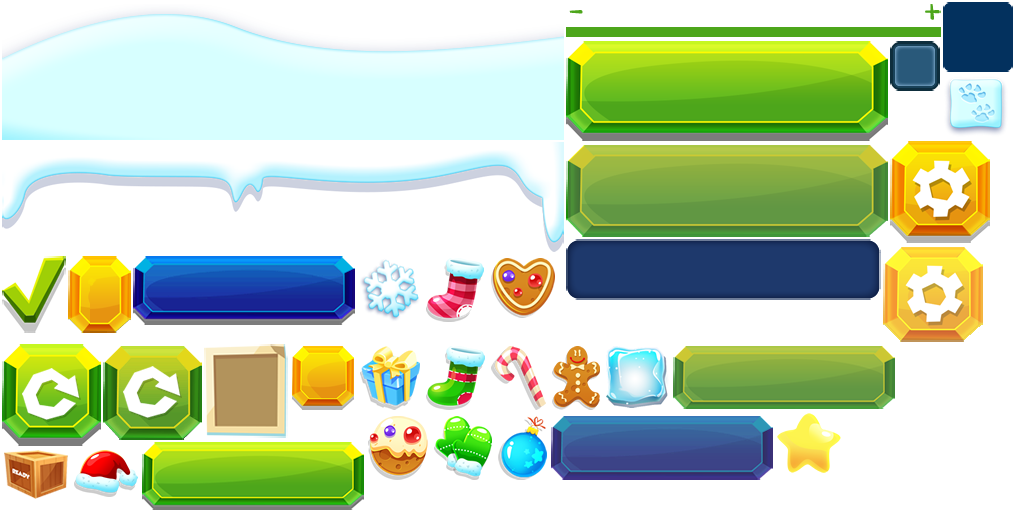
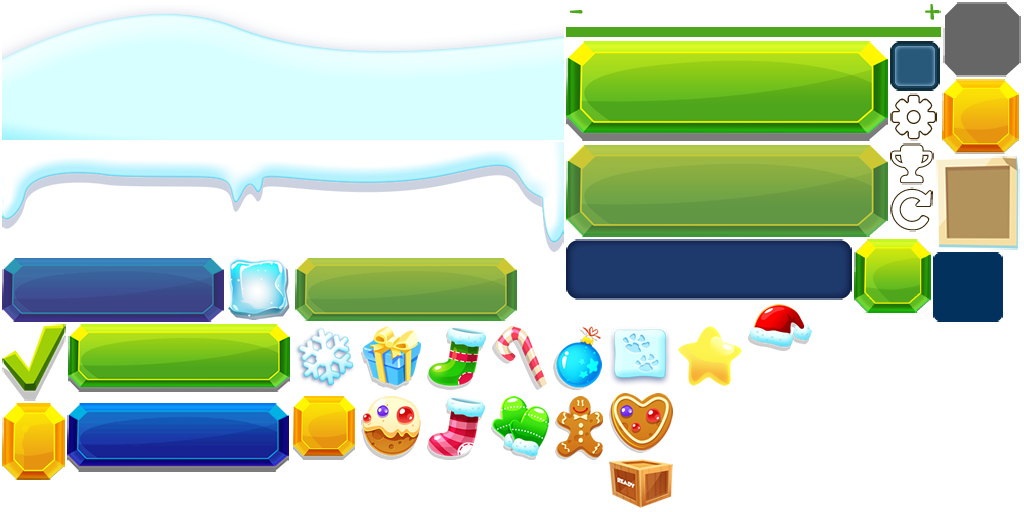
new JewelButton + language select from Settings

diff --git a/js/widgets/popups/SettingsPopup.js b/js/widgets/popups/SettingsPopup.js
@@ -11,31 +11,29 @@ function SettingsPopup(game) {
     this.closeButton.alignIn(this.bg, Phaser.BOTTOM_CENTER, 0, 32);
     this.bg.addChild(this.closeButton);
 
-    this.scoreCallback = undefined;
-    this.scoreCallbackContext = undefined;
-    this.scoreButton = this.game.add.button(0, 0, R.images.buttons.midBlueIdle.page,
+    this.languageButton = this.game.add.button(0, 0, R.images.buttons.midBlueIdle.page,
         function () {
-            this.onScoreButtonPressed();
+            this.onLanguageButtonPressed();
         }, this,
         R.images.buttons.midBlueIdle.name,
         R.images.buttons.midBlueIdle.name,
         R.images.buttons.midBluePressed.name,
         R.images.buttons.midBlueIdle.name);
-    this.scoreButton.alignIn(this.bg, Phaser.TOP_CENTER, 0, -32);
+    this.languageButton.alignIn(this.bg, Phaser.TOP_CENTER, 0, -32);
 
-    var scoreBtLabel = this.game.add.bitmapText(0, 0, R.fonts.robotoBold.name, Locale.strings.scoreTable, 28);
+    var languageBtLabel = this.game.add.bitmapText(0, 0, R.fonts.robotoBold.name, Locale.currentLocale.label, 28);
     // scoreBtLabel.tint = "0xffffff"; // для белого не нужно
-    scoreBtLabel.alignIn(this.scoreButton, Phaser.CENTER, 0, -5);
+    languageBtLabel.alignIn(this.languageButton, Phaser.CENTER, 0, -5);
 
-    this.bg.addChild(this.scoreButton);
-    this.bg.addChild(scoreBtLabel);
+    this.bg.addChild(this.languageButton);
+    this.bg.addChild(languageBtLabel);
 
     this.musicSlider = new VolumeSlider(this.game,
         Sound.settings.volume.music,
         Sound.settings.mute.music,
         Locale.strings.musicOn,
         Locale.strings.musicOff);
-    this.musicSlider.rootView.alignTo(this.scoreButton, Phaser.BOTTOM_CENTER, 0, 120);
+    this.musicSlider.rootView.alignTo(this.languageButton, Phaser.BOTTOM_CENTER, 0, 120);
     this.bg.addChild(this.musicSlider.rootView);
 
     this.musicSlider.setVolumeCallback(function (volume) {
@@ -84,30 +82,17 @@ SettingsPopup.prototype.setXY = function (x, y) {
     return this;
 };
 
-SettingsPopup.prototype.onNewGamePressed = function () {
+
+SettingsPopup.prototype.onLanguageButtonPressed = function () {
     this.hide();
-    if (this.newGameCallback) {
-        this.newGameCallback.call(this.newGameCallbackContext);
+    if (this.languageCallback) {
+        this.languageCallback.call(this.languageCallbackContext);
     }
 };
 
-SettingsPopup.prototype.setNewGameCallBack = function (callback, context) {
-    this.newGameCallback = callback;
-    this.newGameCallbackContext = context;
-    return this;
-};
-
-
-SettingsPopup.prototype.onScoreButtonPressed = function () {
-    this.hide();
-    if (this.scoreCallback) {
-        this.scoreCallback.call(this.scoreCallbackContext);
-    }
-};
-
-SettingsPopup.prototype.setScoreTableCallBack = function (callback, context) {
-    this.scoreCallback = callback;
-    this.scoreCallbackContext = context;
+SettingsPopup.prototype.setLanguageCallBack = function (callback, context) {
+    this.languageCallback = callback;
+    this.languageCallbackContext = context;
     return this;
 };
 

diff --git a/js/windows/main/MainState.js b/js/windows/main/MainState.js
@@ -17,7 +17,7 @@ function MainState() {
         var bg = this.game.add.image(0, 0, R.images.bg.cristmas); // bg
 
         var scoreBg = this.addImage(0, 0, R.images.ui.scoreBg);
-        scoreBg.alignIn(this.game.world, Phaser.TOP_CENTER, 0, -36);
+        scoreBg.alignIn(this.game.world, Phaser.TOP_LEFT, -96, -36);
         this.scoreText = this.game.add.bitmapText(0, 0, R.fonts.fedoka.name, "" + this.scoreLogic.score, 48);
         this.scoreText.tint = "0xF9DC07";
         this.scoreText.anchor.set(0.5, 0.5);
@@ -30,11 +30,14 @@ function MainState() {
         this.bestScoreText.anchor.setTo(0.5, 0.5); // если так не делать - при обновлении текста сместится выравнивание
         this.bestScoreText.alignTo(scoreBg, Phaser.BOTTOM_CENTER, 0, 4);
 
-        this.settingsButton = buttonBuilder.settingsButton(0, 0, this.onSettingsClick, this);
-        this.settingsButton.alignTo(scoreBg, Phaser.RIGHT_CENTER, 12, 0);
-
         this.newgameButton = buttonBuilder.newGameButton(0, 0, this.onNewGameClick, this);
-        this.newgameButton.alignTo(scoreBg, Phaser.LEFT_CENTER, 12, 0);
+        this.newgameButton.alignTo(scoreBg, Phaser.LEFT_CENTER, 6, 0);
+
+        this.scoreButton = buttonBuilder.scoreButton(0, 0, this.onScoreButtonClick, this);
+        this.scoreButton.alignTo(scoreBg, Phaser.RIGHT_CENTER, 6, 0);
+
+        this.settingsButton = buttonBuilder.settingsButton(0, 0, this.onSettingsClick, this);
+        this.settingsButton.alignTo(this.scoreButton.rootView, Phaser.RIGHT_CENTER, 10, 0);
 
 
         this.bejeweledComponent = this.addBejeweled();
@@ -46,9 +49,9 @@ function MainState() {
 
         this.effectManager = new EffectManager(this.game, this.bejeweledComponent);
 
-        //this.hintButton = buttonBuilder.hintButton(0, 0, this.onHintButtonClick, this);
+        this.hintButton = buttonBuilder.hintButton(0, 0, this.onHintButtonClick, this);
         //this.hintButton = buttonBuilder.hintButton(0, 0, this.onGameOver, this);
-        this.hintButton = buttonBuilder.hintButton(0, 0, this.showLanguagePopup, this);
+        //this.hintButton = buttonBuilder.hintButton(0, 0, this.showLanguagePopup, this);
         this.hintButton.alignTo(this.bejeweledComponent.rootView, Phaser.BOTTOM_CENTER, 0, 20);
         this.hintButton.kill(); // прячем до начала игры
 
@@ -72,8 +75,7 @@ function MainState() {
 
     this.addSettingsPopup = function () {
         this.settingsPopup = new SettingsPopup(this.game)
-            .setNewGameCallBack(this.onNewGameClick, this)
-            .setScoreTableCallBack(this.onScoreButtonClick, this)
+            .setLanguageCallBack(this.showLanguagePopup, this)
             .setOnHideCallback(this.onSettingsHide, this);
         this.settingsPopup.rootView.alignIn(this.game.world, Phaser.CENTER);
     };

diff --git a/js/widgets/JewelButton.js b/js/widgets/JewelButton.js
@@ -1,0 +1,70 @@
+/**
+ * Created by Work on 15.12.2017.
+ *
+ * Простая симуляция кнопки из трех картинок
+ *  - бэк
+ *  - иконка
+ *  - оверлей при нажатии
+ *  все это задается в type, который JewelButtonType
+ */
+
+function JewelButton(game, type) {
+    this.SHADOW_Y_DELTA = 4;
+    this.game = game;
+
+    // тень изанчально смещена на дельту
+    this.shadow = game.add.image(0, 0, type.shadow.page, type.shadow.name);
+    this.rootView = this.shadow;
+    this.bg = game.add.image(0, 0, type.bg.page, type.bg.name);
+    this.icon = game.add.image(0, 0, type.icon.page, type.icon.name);
+    this.icon.alignIn(this.bg, Phaser.CENTER);
+
+    this.bg.addChild(this.icon);
+    this.bg.y -= this.SHADOW_Y_DELTA;
+    this.rootView.addChild(this.bg);
+
+    this.rootView.inputEnabled = true;
+    this.rootView.events.onInputDown.add(this.onInputDown, this);
+    this.rootView.events.onInputUp.add(this.onInputUp, this);
+};
+
+JewelButton.prototype.alignTo = function (t, e, s, n) {
+    this.rootView.alignTo(t, e, s, n);
+    return this;
+};
+
+JewelButton.prototype.alignIn = function (t, e, s, n) {
+    this.rootView.alignIn(t, e, s, n);
+    return this;
+};
+
+JewelButton.prototype.setXY = function (x, y) {
+    this.rootView.x = x;
+    this.rootView.y = y + this.SHADOW_Y_DELTA;
+    return this;
+};
+
+JewelButton.prototype.setCallback = function (callback, context) {
+    this.globalCallback = callback;
+    this.globalContext = context;
+    return this;
+};
+
+JewelButton.prototype.onInputDown = function () {
+    this.bg.y = 0;
+    if (this.globalCallback) {
+        this.globalCallback.apply(this.globalContext);
+    }
+};
+
+JewelButton.prototype.onInputUp = function () {
+    this.bg.y = -this.SHADOW_Y_DELTA;
+};
+
+JewelButton.prototype.hide = function () {
+    this.rootView.kill();
+};
+
+JewelButton.prototype.show = function () {
+    this.rootView.revive();
+};

diff --git a/js/assets/R.js b/js/assets/R.js
@@ -60,10 +60,12 @@ var R = {
         },
 
         buttons: {
-            replayIdle: {page: "cristmas_tiles", name: "buttons-replay-idle"},
-            replayPressed: {page: "cristmas_tiles", name: "buttons-replay-pressed"},
-            settingsIdle: {page: "cristmas_tiles", name: "buttons-settings-idle"},
-            settingsPressed: {page: "cristmas_tiles", name: "buttons-settings-pressed"},
+            bt75greenbg: {page: "cristmas_tiles", name: "bt75greenbg"},
+            bt75yellowbg: {page: "cristmas_tiles", name: "bt75yellowbg"},
+            bt75iconReplay: {page: "cristmas_tiles", name: "bt75icon-replay"},
+            bt75iconSettings: {page: "cristmas_tiles", name: "bt75icon-settings"},
+            bt75iconTrophy: {page: "cristmas_tiles", name: "bt75icon-trophy"},
+            bt75shadow: {page: "cristmas_tiles", name: "bt75shadow"},
             bigGreenIdle: {page: "cristmas_tiles", name: "button-green-big-idle"},
             bigGreenPressed: {page: "cristmas_tiles", name: "button-green-big-pressed"},
             midGreenIdle: {page: "cristmas_tiles", name: "button-green-mid-idle"},

diff --git a/js/widgets/ButtonBuilder.js b/js/widgets/ButtonBuilder.js
@@ -40,17 +40,21 @@ ButtonBuilder.newTextButton = function (x, y, callback, context,
 };
 
 ButtonBuilder.settingsButton = function (x, y, callback, context) {
-    return this.newButton(x, y, callback, context,
-        R.images.buttons.settingsIdle.page,
-        R.images.buttons.settingsIdle.name,
-        R.images.buttons.settingsPressed.name);
+    return new JewelButton(this.game, JewelButtonType.SETTINGS)
+        .setCallback(callback, context)
+        .setXY(x, y);
 };
 
 ButtonBuilder.newGameButton = function (x, y, callback, context) {
-    return this.newButton(x, y, callback, context,
-        R.images.buttons.replayIdle.page,
-        R.images.buttons.replayIdle.name,
-        R.images.buttons.replayPressed.name);
+    return new JewelButton(this.game, JewelButtonType.REPLAY)
+        .setCallback(callback, context)
+        .setXY(x, y);
+};
+
+ButtonBuilder.scoreButton = function (x, y, callback, context) {
+    return new JewelButton(this.game, JewelButtonType.SCORE)
+        .setCallback(callback, context)
+        .setXY(x, y);
 };
 
 

diff --git a/js/widgets/popups/LanguagePopup.js b/js/widgets/popups/LanguagePopup.js
@@ -42,7 +42,8 @@ LanguagePopup.prototype.setXY = function (x, y) {
     return this;
 };
 
-LanguagePopup.prototype.onHide = function () {
+LanguagePopup.prototype.onOkButtonClick = function () {
+    this.hide();
     if (this.onHideCallback) {
         this.onHideCallback.call(this.onHideCallbackContext, this.selectedLocale);
     }
@@ -92,7 +93,7 @@ LanguagePopup.prototype.addLayout = function () {
     this.selectLocale(Locale.currentLocale);
 
     var buttonBuilder = ButtonBuilder;
-    this.startButton = buttonBuilder.bigGreenButton(this.onHide, this, Locale.strings.ok);
+    this.startButton = buttonBuilder.bigGreenButton(this.onOkButtonClick, this, Locale.strings.ok);
     this.startButton.alignIn(this.bg, Phaser.BOTTOM_CENTER, 0, 28);
     this.bg.addChild(this.startButton);
 };

diff --git a/js/widgets/JewelButtonType.js b/js/widgets/JewelButtonType.js
@@ -1,0 +1,25 @@
+/**
+ * Created by Work on 15.12.2017.
+ *
+ * описания ресурсов для сборки JewelButton
+ */
+
+var JewelButtonType = {
+    SETTINGS: {
+        shadow: R.images.buttons.bt75shadow,
+        bg: R.images.buttons.bt75yellowbg,
+        icon: R.images.buttons.bt75iconSettings
+    },
+
+    REPLAY: {
+        shadow: R.images.buttons.bt75shadow,
+        bg: R.images.buttons.bt75greenbg,
+        icon: R.images.buttons.bt75iconReplay
+    },
+
+    SCORE: {
+        shadow: R.images.buttons.bt75shadow,
+        bg: R.images.buttons.bt75yellowbg,
+        icon: R.images.buttons.bt75iconTrophy
+    }
+};

diff --git a/index.html b/index.html
@@ -37,6 +37,8 @@
 <script src="js/database/Repository.js"></script>
 <script src="js/database/ScoreRepository.js"></script>
 <script src="js/sounds/Sound.js"></script>
+<script src="js/widgets/JewelButtonType.js"></script>
+<script src="js/widgets/JewelButton.js"></script>
 <script src="js/widgets/ButtonBuilder.js"></script>
 <script src="js/widgets/effects/Explosion.js"></script>
 <script src="js/widgets/effects/EffectManager.js"></script>
